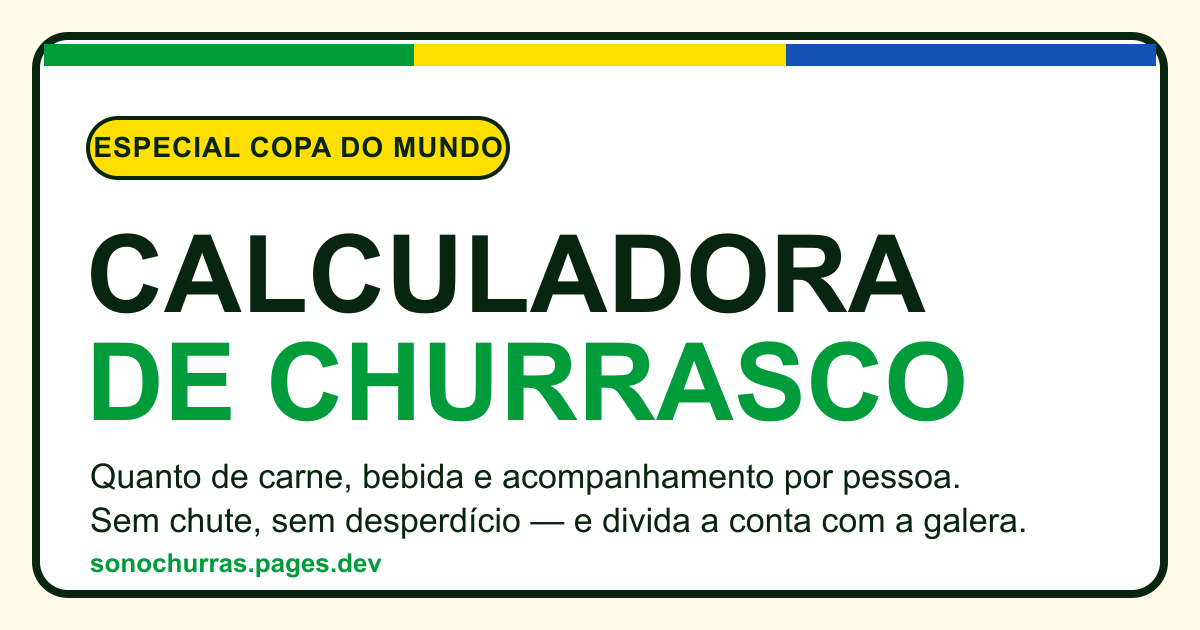
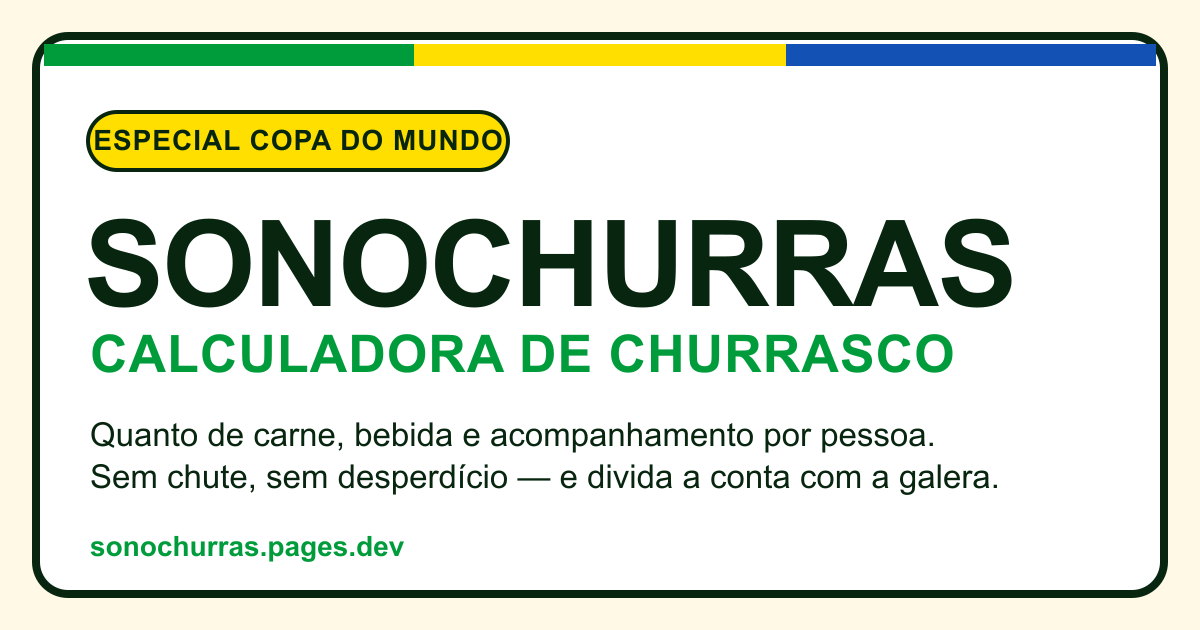
chore: rename app to Sonochurras
Updated name everywhere visible: title/template/siteName/applicationName/appleWebApp,
manifest, home (h1) and OG image. Updated WhatsApp share message footer.

Changed region(s): [[0.0617, 0.3317, 0.8633, 0.7841], [0.0617, 0.1508, 0.4317, 0.3016], [0.0617, 0.8143, 0.8633, 0.9349]]

diff --git a/src/app/layout.tsx b/src/app/layout.tsx
@@ -24,18 +24,18 @@ const display = Bebas_Neue({
 // Troque aqui se mudar para um domínio próprio.
 const SITE_URL = "https://sonochurras.pages.dev";
 
-const TITULO = "Calculadora de Churrasco — quanto de carne por pessoa";
+const TITULO = "Sonochurras — quanto de carne por pessoa no churrasco";
 const DESCRICAO =
-  "Descubra a quantidade certa de carne, acompanhamentos e bebidas do seu churrasco — por pessoa, com dicas de cortes, rateio entre amigos e lista pronta pra compartilhar no WhatsApp.";
+  "O Sonochurras descobre a quantidade certa de carne, acompanhamentos e bebidas do seu churrasco — por pessoa, com dicas de cortes, rateio entre amigos e lista pronta pra compartilhar no WhatsApp.";
 
 export const metadata: Metadata = {
   metadataBase: new URL(SITE_URL),
   title: {
     default: TITULO,
-    template: "%s · Calculadora de Churrasco",
+    template: "%s · Sonochurras",
   },
   description: DESCRICAO,
-  applicationName: "Calculadora de Churrasco",
+  applicationName: "Sonochurras",
   keywords: [
     "calculadora de churrasco",
     "quantidade de carne por pessoa",
@@ -50,14 +50,14 @@ export const metadata: Metadata = {
   appleWebApp: {
     capable: true,
     statusBarStyle: "default",
-    title: "Churras",
+    title: "Sonochurras",
   },
   alternates: { canonical: "/" },
   openGraph: {
     type: "website",
     locale: "pt_BR",
     url: SITE_URL,
-    siteName: "Calculadora de Churrasco",
+    siteName: "Sonochurras",
     title: TITULO,
     description: DESCRICAO,
     images: [
@@ -65,7 +65,7 @@ export const metadata: Metadata = {
         url: "/og.png",
         width: 1200,
         height: 630,
-        alt: "Calculadora de Churrasco — quanto de carne por pessoa",
+        alt: "Sonochurras — calculadora de churrasco",
       },
     ],
   },

diff --git a/src/app/page.tsx b/src/app/page.tsx
@@ -21,11 +21,13 @@ export default function Home() {
         🏆 Edição Copa do Mundo
       </span>
 
-      <h1 className="font-heading text-5xl uppercase leading-[0.9] sm:text-6xl">
-        Calculadora
-        <br />
-        de Churrasco
+      <h1 className="font-heading text-6xl uppercase leading-[0.9] sm:text-7xl">
+        Sonochurras
       </h1>
+
+      <p className="-mt-3 font-heading text-xl uppercase tracking-wide text-primary-text">
+        Calculadora de churrasco
+      </p>
 
       <p className="max-w-md text-balance text-base text-foreground/70">
         Ano de Copa é ano de churrasco com a galera. Descubra a quantidade certa

diff --git a/src/core/compartilhar.ts b/src/core/compartilhar.ts
@@ -45,7 +45,7 @@ export function textoCompartilhar(
   linhas.push(...secao("🥤 BEBIDAS", resultado.bebidas));
 
   linhas.push("");
-  linhas.push("_Feito na Calculadora de Churrasco_ 🇧🇷");
+  linhas.push("_Feito no Sonochurras 🇧🇷 — sonochurras.pages.dev_");
   return linhas.join("\n");
 }
 

diff --git a/DECISOES.md b/DECISOES.md
@@ -1,4 +1,6 @@
-# Calculadora de Churrasco — Decisões do Projeto
+# Sonochurras — Decisões do Projeto
+
+> App: **Sonochurras** (calculadora de churrasco). Domínio: sonochurras.pages.dev
 
 > Documento vivo. Registra as decisões tomadas para não perdermos contexto.
 > Última atualização: 2026-06-09